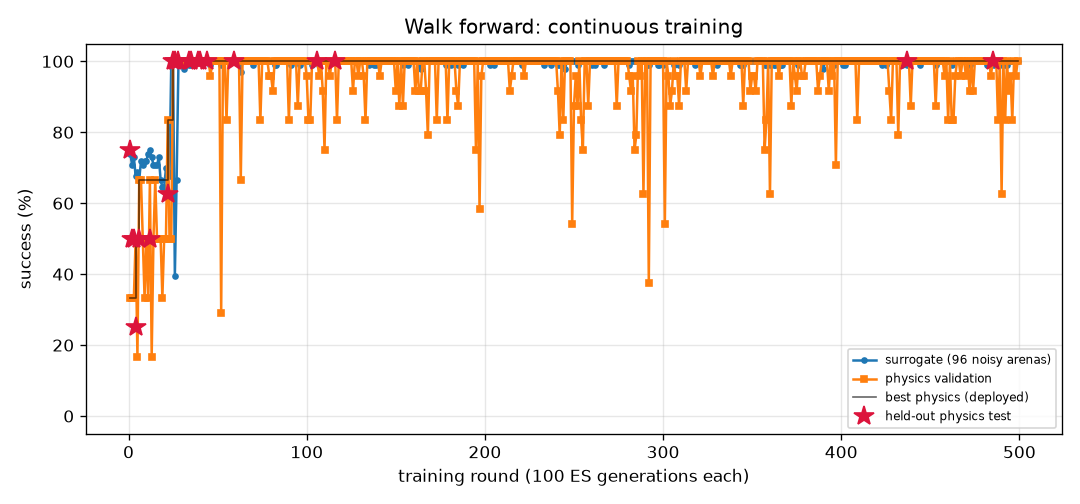
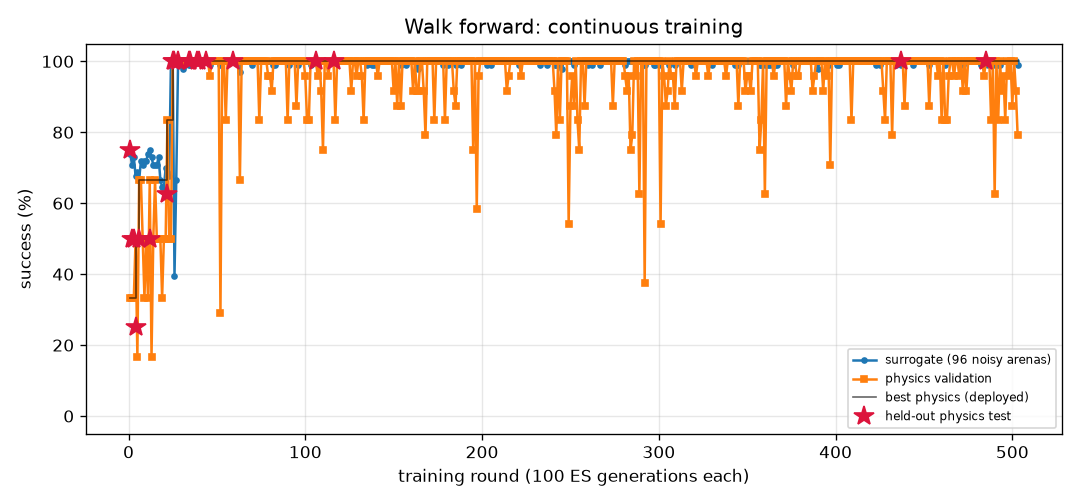
FlyLab: continuous training progress
- walk_forward: optimal, physics val 100% of 24, round 503
- turn: optimal, physics val 100% of 24, round 1290
- goto: optimal, physics val 100% of 24, round 388
- odor_seek: optimal, physics val 100% of 24, round 314
- odor_avoid: optimal, physics val 100% of 24, round 1092
- light_seek: optimal, physics val 100% of 24, round 590
- light_avoid: optimal, physics val 100% of 24, round 806

diff --git a/projects/09_flylab/training/odor_seek/REPORT.md b/projects/09_flylab/training/odor_seek/REPORT.md
@@ -1,14 +1,14 @@
 # Find food by smell (`odor_seek`) — training report
 
-*Auto-generated by `train_brains.py`, last updated 2026-11-22T20:36:49.*
+*Auto-generated by `train_brains.py`, last updated 2026-11-23T00:07:42.*
 
 ![curve](curve.png)
 
 | | |
 |---|---|
-| rounds | 310 |
-| ES generations | 31000 |
-| physics runs | 6934 |
+| rounds | 314 |
+| ES generations | 31400 |
+| physics runs | 7030 |
 | status | **optimal** |
 | best brain | round 240: physics validation **100%** on 24 arenas, surrogate 100% |
 | held-out physics test | **100%** on 32 unseen arenas (95% CI 89%-100%) (errors: [0.02, 0.03, 0.03, 0.05, 0.04, 0.05, 0.06, 0.07, 0.09, 0.05, 0.05, 0.01, 0.12, 0.03, 0.07, 0.08, 0.02, 0.06, 0.03, 0.04, 0.0, 0.01, 0.09, 0.05, 0.04, 0.01, 0.07, 0.05, 0.08, 0.05, 0.05, 0.02]) |
@@ -17,10 +17,6 @@ Physics error per arena: mm from target at the end (< 1.5 and standing still = s
 
 | round | level | gens | sigma | surrogate | physics val | val errors | test | note |
 |---:|---:|---:|---:|---:|---:|---|---:|---|
-| 271 | 3 | 27100 | 0.024 | 100% | 100% | [0.12, 0.08, 0.06, 0.05, 0.15, 0.11, 0.14, 0.1, 0.13, 0.15, 0.13, 0.06, 0.16, 0.11, 0.11, 0.11, 0.15, 0.21, 0.05, 0.16, 0.1, 0.1, 0.09, 0.09] |  |  |
-| 272 | 3 | 27200 | 0.024 | 100% | 100% | [0.28, 0.22, 0.13, 0.23, 0.14, 0.14, 0.12, 0.12, 0.07, 0.19, 0.09, 0.12, 0.07, 0.12, 0.11, 0.05, 0.06, 0.24, 0.15, 0.12, 0.13, 0.09, 0.14, 0.13] |  | restart from best |
-| 273 | 3 | 27300 | 0.024 | 100% | 100% | [0.14, 0.13, 0.07, 0.2, 0.15, 0.12, 0.13, 0.13, 0.19, 0.08, 0.07, 0.09, 0.11, 0.06, 0.08, 0.1, 0.11, 0.04, 0.14, 0.11, 0.1, 0.09, 0.12, 0.1] |  |  |
-| 274 | 3 | 27400 | 0.024 | 100% | 100% | [0.14, 0.18, 0.12, 0.1, 0.13, 0.14, 0.12, 0.18, 0.15, 0.17, 0.17, 0.17, 0.13, 0.17, 0.15, 0.06, 0.16, 0.14, 0.09, 0.18, 0.18, 0.08, 0.19, 0.07] |  |  |
 | 275 | 3 | 27500 | 0.024 | 100% | 96% | [0.15, 0.14, 0.14, 0.2, 0.21, 0.19, 0.15, 0.14, 0.13, 0.14, 18.03, 0.14, 0.19, 0.14, 0.14, 0.17, 0.18, 0.16, 0.18, 0.2, 0.1, 0.15, 0.15, 0.16] |  |  |
 | 276 | 3 | 27600 | 0.024 | 100% | 96% | [0.07, 0.1, 0.16, 0.11, 0.08, 0.06, 0.12, 0.08, 0.17, 0.15, 23.03, 0.18, 0.18, 0.12, 0.14, 0.17, 0.06, 0.07, 0.12, 0.11, 0.1, 0.17, 0.03, 0.17] |  | restart from best |
 | 277 | 3 | 27700 | 0.024 | 100% | 100% | [0.18, 0.15, 0.14, 0.2, 0.14, 0.11, 0.17, 0.2, 0.19, 0.2, 0.15, 0.11, 0.2, 0.17, 0.09, 0.17, 0.25, 0.15, 0.13, 0.23, 0.18, 0.14, 0.11, 0.11] |  |  |
@@ -57,3 +53,7 @@ Physics error per arena: mm from target at the end (< 1.5 and standing still = s
 | 308 | 3 | 30800 | 0.024 | 100% | 100% | [0.07, 0.18, 0.1, 0.14, 0.11, 0.1, 0.1, 0.12, 0.15, 0.14, 0.13, 0.09, 0.21, 0.09, 0.15, 0.08, 0.13, 0.12, 0.12, 0.26, 0.14, 0.15, 0.1, 0.1] |  | restart from best |
 | 309 | 3 | 30900 | 0.024 | 100% | 100% | [0.05, 0.08, 0.03, 0.02, 0.06, 0.04, 0.05, 0.1, 0.08, 0.06, 0.11, 0.19, 0.06, 0.01, 0.04, 0.06, 0.13, 0.12, 0.08, 0.07, 0.02, 0.1, 0.09, 0.04] |  |  |
 | 310 | 3 | 31000 | 0.024 | 100% | 100% | [0.08, 0.12, 0.18, 0.14, 0.16, 0.18, 0.18, 0.14, 0.11, 0.11, 0.17, 0.2, 0.12, 0.12, 0.06, 0.16, 0.09, 0.14, 0.13, 0.11, 0.13, 0.05, 0.14, 0.11] |  |  |
+| 311 | 3 | 31100 | 0.024 | 100% | 100% | [0.17, 0.24, 0.18, 0.13, 0.13, 0.16, 0.17, 0.17, 0.2, 0.14, 0.15, 0.15, 0.16, 0.18, 0.17, 0.1, 0.09, 0.14, 0.16, 0.1, 0.09, 0.12, 0.05, 0.12] |  |  |
+| 312 | 3 | 31200 | 0.024 | 100% | 100% | [0.12, 0.08, 0.11, 0.18, 0.13, 0.07, 0.1, 0.1, 0.14, 0.1, 0.06, 0.16, 0.13, 0.1, 0.09, 0.12, 0.08, 0.07, 0.13, 0.1, 0.13, 0.05, 0.12, 0.15] |  | restart from best |
+| 313 | 3 | 31300 | 0.024 | 100% | 100% | [0.03, 0.05, 0.02, 0.1, 0.04, 0.09, 0.01, 0.04, 0.04, 0.05, 0.03, 0.02, 0.04, 0.04, 0.05, 0.05, 0.14, 0.07, 0.05, 0.05, 0.07, 0.03, 0.06, 0.09] |  |  |
+| 314 | 3 | 31400 | 0.024 | 100% | 100% | [0.15, 0.13, 0.22, 0.14, 0.16, 0.14, 0.12, 0.15, 0.14, 0.14, 0.13, 0.18, 0.14, 0.2, 0.15, 0.16, 0.18, 0.12, 0.17, 0.22, 0.16, 0.21, 0.15, 0.17] |  |  |

diff --git a/projects/09_flylab/training/walk_forward/REPORT.md b/projects/09_flylab/training/walk_forward/REPORT.md
@@ -1,14 +1,14 @@
 # Walk forward (`walk_forward`) — training report
 
-*Auto-generated by `train_brains.py`, last updated 2026-11-22T23:05:40.*
+*Auto-generated by `train_brains.py`, last updated 2026-11-22T23:49:02.*
 
 ![curve](curve.png)
 
 | | |
 |---|---|
-| rounds | 499 |
-| ES generations | 49900 |
-| physics runs | 12054 |
+| rounds | 503 |
+| ES generations | 50300 |
+| physics runs | 12150 |
 | status | **optimal** |
 | best brain | round 485: physics validation **100%** on 24 arenas, surrogate 100% |
 | held-out physics test | **100%** on 32 unseen arenas (95% CI 89%-100%) (errors: [0.14, 0.13, 0.15, 0.21, 0.14, 0.12, 0.13, 0.18, 0.2, 0.15, 0.13, 0.14, 0.2, 0.15, 0.12, 0.12, 0.14, 0.14, 0.13, 0.13, 0.14, 0.21, 0.14, 0.13, 0.14, 0.14, 0.18, 0.14, 0.14, 0.14, 0.17, 0.15]) |
@@ -17,10 +17,6 @@ Physics error per arena: mm from target at the end (< 1.5 and standing still = s
 
 | round | level | gens | sigma | surrogate | physics val | val errors | test | note |
 |---:|---:|---:|---:|---:|---:|---|---:|---|
-| 460 | 3 | 46000 | 0.024 | 100% | 83% | [0.09, 0.12, 0.08, 0.09, 0.12, 0.03, 0.12, 0.91, 0.13, 0.13, 0.02, 0.13, 0.2, 0.97, 0.1, 0.14, 0.09, 0.12, 0.58, 0.11, 0.07, 0.13, 0.13, 0.73] |  |  |
-| 461 | 3 | 46100 | 0.024 | 100% | 100% | [0.1, 0.13, 0.09, 0.1, 0.13, 0.09, 0.13, 0.1, 0.13, 0.15, 0.09, 0.16, 0.1, 0.09, 0.11, 0.15, 0.1, 0.13, 0.1, 0.12, 0.1, 0.15, 0.16, 0.1] |  | restart from best |
-| 462 | 3 | 46200 | 0.025 | 99% | 83% | [0.08, 0.07, 0.07, 0.03, 0.07, 0.37, 0.13, 0.08, 0.06, 0.09, 0.43, 0.14, 0.07, 0.38, 0.04, 0.15, 0.03, 0.16, 0.06, 0.07, 0.12, 0.08, 0.12, 0.09] |  |  |
-| 463 | 3 | 46300 | 0.025 | 100% | 83% | [0.1, 0.13, 0.05, 0.04, 0.11, 0.03, 0.09, 0.09, 0.09, 0.1, 0.1, 0.09, 0.25, 0.17, 0.04, 0.09, 0.04, 0.07, 0.14, 0.07, 0.06, 0.11, 0.09, 0.16] |  |  |
 | 464 | 3 | 46400 | 0.024 | 100% | 96% | [0.21, 0.21, 0.04, 0.21, 0.2, 0.5, 0.21, 0.17, 0.21, 0.19, 0.48, 0.12, 0.17, 0.12, 0.22, 0.18, 0.21, 0.21, 0.17, 0.22, 0.18, 0.18, 0.08, 0.17] |  |  |
 | 465 | 3 | 46500 | 0.024 | 100% | 100% | [0.24, 0.2, 0.16, 0.23, 0.2, 0.14, 0.2, 0.19, 0.2, 0.19, 0.22, 0.16, 0.19, 0.14, 0.23, 0.17, 0.22, 0.21, 0.2, 0.22, 0.21, 0.18, 0.15, 0.19] |  | restart from best |
 | 466 | 3 | 46600 | 0.025 | 100% | 100% | [0.33, 0.33, 0.28, 0.33, 0.33, 0.26, 0.33, 0.3, 0.33, 0.31, 0.25, 0.3, 0.3, 0.27, 0.33, 0.31, 0.33, 0.34, 0.31, 0.34, 0.32, 0.32, 0.3, 0.29] |  |  |
@@ -57,3 +53,7 @@ Physics error per arena: mm from target at the end (< 1.5 and standing still = s
 | 497 | 3 | 49700 | 0.024 | 100% | 100% | [0.18, 0.29, 0.21, 0.17, 0.29, 0.23, 0.3, 0.19, 0.3, 0.3, 0.23, 0.28, 0.2, 0.22, 0.19, 0.29, 0.17, 0.27, 0.19, 0.21, 0.18, 0.3, 0.28, 0.19] |  | restart from best |
 | 498 | 3 | 49800 | 0.024 | 100% | 96% | [0.07, 0.24, 0.05, 0.07, 0.15, 0.07, 0.27, 0.06, 0.26, 0.3, 0.2, 0.31, 0.06, 0.06, 0.07, 0.31, 0.06, 0.07, 0.06, 0.07, 0.06, 0.31, 0.31, 0.06] |  |  |
 | 499 | 3 | 49900 | 0.024 | 100% | 100% | [0.36, 0.36, 0.3, 0.36, 0.36, 0.29, 0.35, 0.33, 0.36, 0.32, 0.27, 0.3, 0.32, 0.28, 0.37, 0.31, 0.35, 0.37, 0.33, 0.37, 0.34, 0.32, 0.29, 0.32] |  |  |
+| 500 | 3 | 50000 | 0.024 | 100% | 88% | [0.19, 0.26, 0.06, 0.19, 0.25, 0.38, 0.27, 0.02, 0.26, 0.28, 0.02, 0.27, 0.07, 0.16, 0.21, 0.28, 0.69, 0.24, 0.01, 0.21, 0.02, 0.27, 0.26, 0.05] |  |  |
+| 501 | 3 | 50100 | 0.024 | 100% | 100% | [0.26, 0.22, 0.11, 0.26, 0.22, 0.1, 0.23, 0.14, 0.23, 0.24, 0.09, 0.21, 0.17, 0.1, 0.2, 0.24, 0.19, 0.22, 0.1, 0.23, 0.16, 0.24, 0.2, 0.17] |  | restart from best |
+| 502 | 3 | 50200 | 0.024 | 100% | 92% | [0.18, 0.24, 0.04, 0.07, 0.24, 0.16, 0.25, 0.34, 0.24, 0.26, 0.09, 0.25, 0.11, 0.09, 0.19, 0.26, 0.1, 0.23, 0.12, 0.2, 0.07, 0.25, 0.25, 0.09] |  |  |
+| 503 | 3 | 50300 | 0.024 | 99% | 79% | [0.1, 0.05, 0.06, 0.1, 0.07, 0.08, 0.08, 0.36, 0.11, 0.07, 0.08, 0.1, 0.08, 0.09, 0.18, 0.08, 0.11, 0.19, 0.09, 0.18, 0.9, 0.09, 0.09, 0.07] |  |  |

diff --git a/projects/09_flylab/training/turn/REPORT.md b/projects/09_flylab/training/turn/REPORT.md
@@ -1,14 +1,14 @@
 # Turn in place (`turn`) — training report
 
-*Auto-generated by `train_brains.py`, last updated 2026-11-22T20:53:10.*
+*Auto-generated by `train_brains.py`, last updated 2026-11-23T00:02:42.*
 
 ![curve](curve.png)
 
 | | |
 |---|---|
-| rounds | 1288 |
-| ES generations | 128800 |
-| physics runs | 31158 |
+| rounds | 1290 |
+| ES generations | 129000 |
+| physics runs | 31206 |
 | status | **optimal** |
 | best brain | round 80: physics validation **100%** on 24 arenas, surrogate 100% |
 | held-out physics test | **97%** on 32 unseen arenas (95% CI 84%-99%) (errors: [1.6, 3.3, 6.3, 3.7, 1.1, 0.4, 2.4, 2.9, 0.1, 2.6, 0.5, 2.7, 1.5, 3.1, 4.5, 0.2, 0.5, 1.1, 2.0, 4.4, 2.8, 3.2, 0.3, 2.2, 0.5, 3.0, 0.3, 5.4, 0.4, 1.0, 4.7, 10.7]) |
@@ -17,8 +17,6 @@ Physics error per arena: deg from target heading (< 20 = success).
 
 | round | level | gens | sigma | surrogate | physics val | val errors | test | note |
 |---:|---:|---:|---:|---:|---:|---|---:|---|
-| 1249 | 3 | 124900 | 0.024 | 98% | 71% | [7.8, 1.8, 4.5, 0.1, 6.4, 112.4, 5.7, 6.8, 5.6, 0.8, 5.9, 0.5, 0.6, 1.3, 4.9, 3.0, 0.7, 2.1, 0.6, 0.2, 7.1, 1.6, 6.6, 7.1] |  |  |
-| 1250 | 3 | 125000 | 0.025 | 99% | 75% | [6.4, 2.6, 2.5, 0.4, 4.6, 2.7, 6.0, 6.3, 6.4, 0.5, 5.3, 0.7, 1.1, 0.3, 3.5, 0.7, 0.5, 1.1, 0.8, 7.3, 2.6, 0.8, 4.0, 2.9] |  |  |
 | 1251 | 3 | 125100 | 0.025 | 99% | 83% | [8.6, 8.1, 1.1, 4.1, 5.4, 1.3, 3.9, 1.4, 3.9, 0.3, 4.1, 0.7, 1.6, 6.1, 4.4, 1.4, 0.2, 0.1, 1.2, 0.9, 3.5, 0.6, 4.5, 2.3] |  |  |
 | 1252 | 3 | 125200 | 0.025 | 98% | 92% | [5.3, 9.3, 4.5, 5.9, 5.8, 1.0, 3.7, 5.0, 3.7, 0.4, 5.3, 2.4, 2.0, 3.1, 4.3, 2.9, 3.0, 0.0, 2.2, 3.2, 5.8, 0.8, 4.1, 2.1] |  | restart from best |
 | 1253 | 3 | 125300 | 0.024 | 100% | 92% | [8.7, 10.6, 0.8, 3.4, 3.2, 2.4, 1.2, 5.9, 1.4, 2.0, 0.1, 4.3, 1.8, 4.8, 0.5, 4.3, 3.8, 1.8, 4.7, 3.8, 5.4, 1.8, 3.2, 0.6] |  |  |
@@ -57,3 +55,5 @@ Physics error per arena: deg from target heading (< 20 = success).
 | 1286 | 3 | 128600 | 0.024 | 99% | 71% | [5.3, 6.4, 3.5, 0.8, 1.3, 2.4, 2.8, 8.4, 4.9, 0.6, 3.9, 1.6, 0.5, 4.1, 3.7, 1.3, 1.7, 1.7, 1.2, 1.2, 6.0, 0.5, 3.6, 6.2] |  |  |
 | 1287 | 3 | 128700 | 0.025 | 100% | 79% | [5.4, 8.5, 0.3, 1.6, 6.0, 3.5, 3.4, 0.9, 3.9, 0.2, 4.3, 1.4, 1.5, 2.0, 4.2, 0.8, 0.9, 2.0, 0.7, 1.1, 6.4, 0.4, 2.8, 0.8] |  |  |
 | 1288 | 3 | 128800 | 0.024 | 99% | 75% | [5.5, 5.0, 3.0, 1.1, 1.0, 2.5, 4.2, 4.0, 4.9, 0.5, 5.5, 0.3, 0.5, 2.3, 4.4, 0.0, 0.2, 0.5, 0.2, 1.0, 2.7, 0.0, 6.6, 0.9] |  | restart from best |
+| 1289 | 3 | 128900 | 0.024 | 99% | 67% | [8.2, 0.4, 3.4, 0.7, 2.1, 109.1, 3.8, 1.8, 4.8, 0.6, 4.5, 1.8, 0.3, 0.2, 5.5, 2.6, 0.8, 2.9, 0.0, 7.5, 5.4, 3.6, 6.8, 7.2] |  |  |
+| 1290 | 3 | 129000 | 0.025 | 100% | 67% | [9.3, 4.2, 7.9, 1.2, 1.9, 7.1, 6.5, 4.2, 6.7, 1.5, 6.8, 1.6, 2.4, 1.1, 6.4, 3.6, 1.6, 2.8, 5.5, 1.5, 5.3, 0.9, 7.3, 7.7] |  |  |

diff --git a/projects/09_flylab/training/TRAINING.md b/projects/09_flylab/training/TRAINING.md
@@ -1,15 +1,15 @@
 # FlyLab brains — continuous training log
 
-*Auto-generated by `train_brains.py`, last updated 2026-11-22T23:05:40.*
+*Auto-generated by `train_brains.py`, last updated 2026-11-23T00:07:42.*
 
 Every skill has its own brain and its own training process: surrogate ES rounds, physics validation in MuJoCo, keep-the-best selection, and a held-out physics test that is never used for selection. See each skill's report for its full round-by-round history. Mastery is progressive: passing a level (100% physics validation, >=95% surrogate) doubles the validation and test arena sets; a brain is **optimal** once it holds up at level 3 (>=95% of 24 validation arenas) AND scores >=90% on the 32 held-out test arenas. Test columns show 95% Wilson confidence intervals.
 
 | skill | rounds | ES generations | physics runs | surrogate | physics val | **physics test** | status |
 |---|---:|---:|---:|---:|---:|---:|---|
-| [Walk forward](walk_forward/REPORT.md) | 499 | 49900 | 12054 | 100% | 100% of 24 | 100% of 32 (CI 89-100%) | **optimal** |
-| [Turn in place](turn/REPORT.md) | 1288 | 128800 | 31158 | 100% | 100% of 24 | 97% of 32 (CI 84-99%) | **optimal** |
+| [Walk forward](walk_forward/REPORT.md) | 503 | 50300 | 12150 | 100% | 100% of 24 | 100% of 32 (CI 89-100%) | **optimal** |
+| [Turn in place](turn/REPORT.md) | 1290 | 129000 | 31206 | 100% | 100% of 24 | 97% of 32 (CI 84-99%) | **optimal** |
 | [Go to a location](goto/REPORT.md) | 388 | 38800 | 9262 | 100% | 100% of 24 | 100% of 32 (CI 89-100%) | **optimal** |
-| [Find food by smell](odor_seek/REPORT.md) | 310 | 31000 | 6934 | 100% | 100% of 24 | 100% of 32 (CI 89-100%) | **optimal** |
+| [Find food by smell](odor_seek/REPORT.md) | 314 | 31400 | 7030 | 100% | 100% of 24 | 100% of 32 (CI 89-100%) | **optimal** |
 | [Escape a bad smell](odor_avoid/REPORT.md) | 1092 | 109200 | 23514 | 97% | 100% of 24 | 97% of 32 (CI 84-99%) | **optimal** |
 | [Walk toward light](light_seek/REPORT.md) | 590 | 59000 | 11040 | 100% | 100% of 24 | 100% of 32 (CI 89-100%) | **optimal** |
 | [Hide from light](light_avoid/REPORT.md) | 806 | 80600 | 19616 | 100% | 100% of 24 | 100% of 32 (CI 89-100%) | **optimal** |
